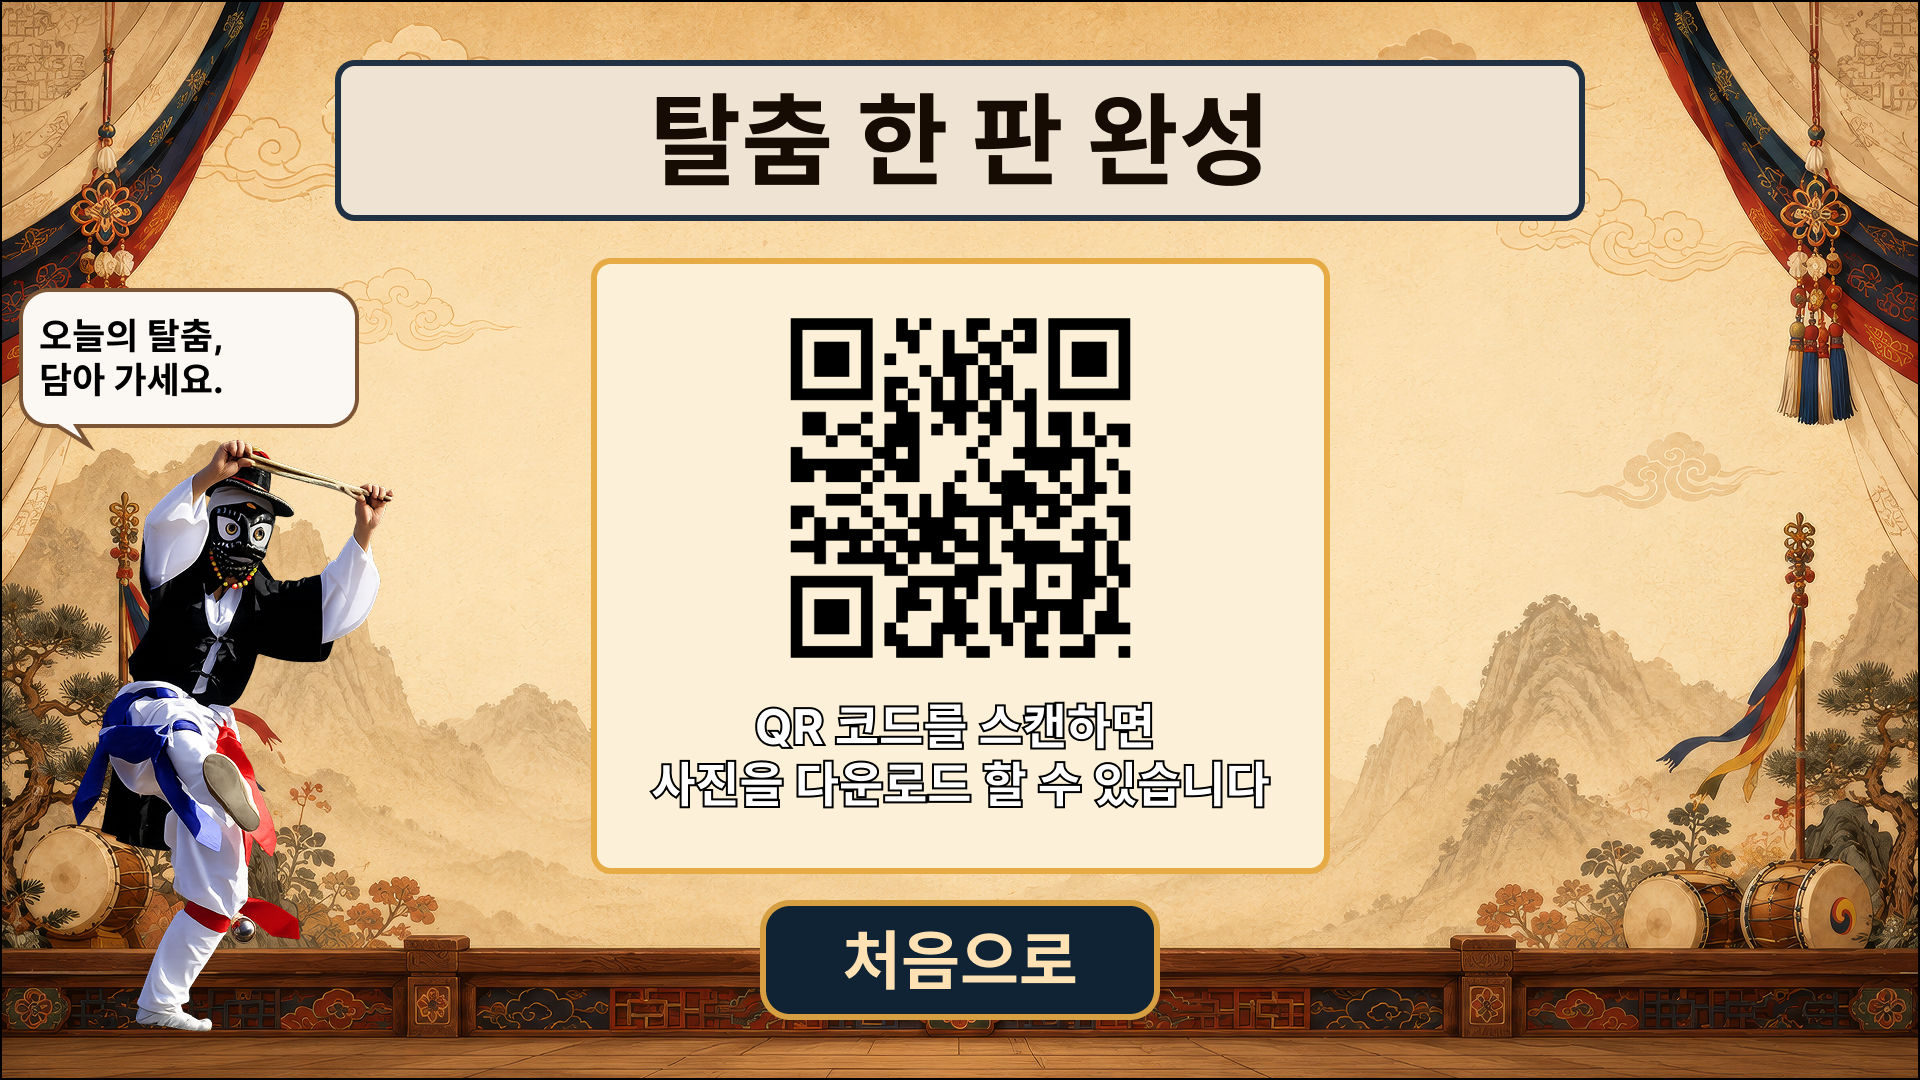
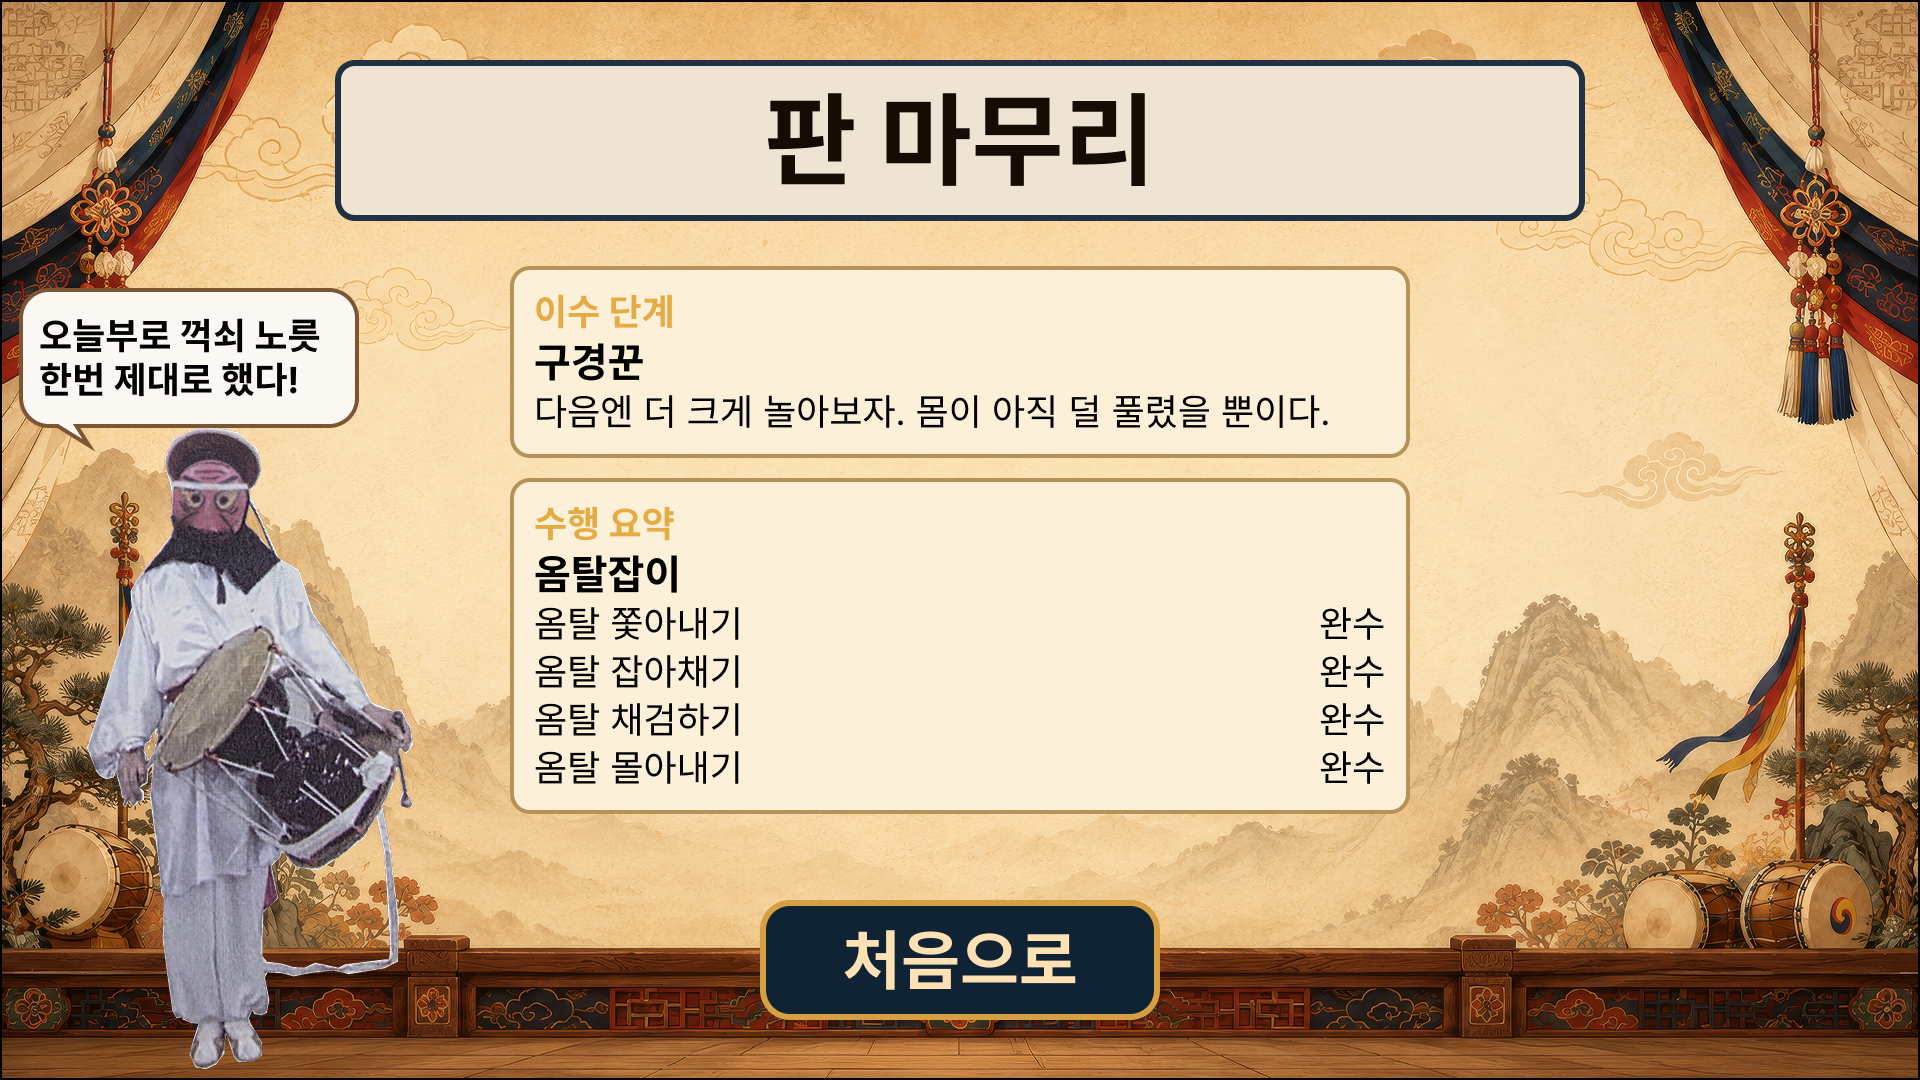
docs: 탈놀음 체험과 마무리 흐름 보강

diff --git a/05_산출물/시범콘텐츠/05_덧뵈기 - 탈놀음 한바탕/덧뵈기 - 탈놀음 한바탕 기획서.md b/05_산출물/시범콘텐츠/05_덧뵈기 - 탈놀음 한바탕/덧뵈기 - 탈놀음 한바탕 기획서.md
@@ -25,7 +25,7 @@ updated: 2026-08-31
 | 2.0.1 | 2026.08.05 | 문구 수정<br>히스토리 기록           | 2<br>4.3 | 조상연 |
 | 2.0.2 | 2026.08.05 | 배역 선택 시 해당 배역에 대한 설명 표시    | 4.2      | 조상연 |
 | 3.0.0 | 2026.08.14 | 가면극 재규정 반영 전면 재설계          | 전체       | 조상연 |
-| 4.0.0 | 2026.08.27 | 방향성 수정에 따른 콘텐츠명 변경 및 내용 수정 | 전체       | 조상연 |
+| 4.0.0 | 2026.08.31 | 방향성 수정에 따른 콘텐츠명 변경 및 내용 수정 | 전체       | 조상연 |
 
 # 1. 개요
 
@@ -78,7 +78,7 @@ updated: 2026-08-31
 ### 3.2.2 동작 방식
 
 <img src="../../../assets/시범콘텐츠/탈놀음/플로우_언어선택.png">
-
+<br>
 <img src="../../../assets/시범콘텐츠/탈놀음/언어선택.png" width="500">
 
 #### 1) 언어 선택 및 적용
@@ -112,7 +112,7 @@ updated: 2026-08-31
 ### 3.3.2 동작 방식
 
 <img src="../../../assets/시범콘텐츠/탈놀음/플로우_화면타임아웃.png">
-
+<br>
 <img src="../../../assets/시범콘텐츠/탈놀음/화면타임아웃.png">
 
 #### 1) 타임아웃
@@ -144,7 +144,7 @@ updated: 2026-08-31
 #### 1) 진행 중 종료 선택 시 처리
 
 <img src="../../../assets/시범콘텐츠/탈놀음/플로우_종료팝업.png">
-
+<br>
 <img src="../../../assets/시범콘텐츠/탈놀음/종료팝업.png">
 
 ##### (1) 적용 조건
@@ -158,7 +158,7 @@ updated: 2026-08-31
 #### 2) 미입력 타임아웃 시 처리
 
 <img src="../../../assets/시범콘텐츠/탈놀음/플로우_미입력타임아웃.png">
-
+<br>
 <img src="../../../assets/시범콘텐츠/탈놀음/미입력타임아웃.png">
 
 ##### (1) 적용 조건
@@ -182,7 +182,7 @@ updated: 2026-08-31
 #### 3) 세션 진행 실패 시 처리
 
 <img src="../../../assets/시범콘텐츠/탈놀음/플로우_실패종료.png">
-
+<br>
 <img src="../../../assets/시범콘텐츠/탈놀음/실패종료.png">
 
 ##### (1) 적용 조건
@@ -365,7 +365,7 @@ updated: 2026-08-31
 ### 3.7.2 동작 방식
 
 <img src="../../../assets/시범콘텐츠/탈놀음/플로우_증거조합.png">
-
+<br>
 <img src="../../../assets/시범콘텐츠/탈놀음/플로우_증거조합판정.png">
 
 
@@ -438,7 +438,6 @@ updated: 2026-08-31
 
 <img src="../../../assets/시범콘텐츠/탈놀음/플로우_이용동의.png">
 
-
 # 5. 마당 선택 진행
 
 ## 5.1 개요
@@ -460,7 +459,14 @@ updated: 2026-08-31
 
 ## 6.1 개요
 
+#### 1) 정의
+
 - 유저에게 덧뵈기의 각 마당 별 재미 요소 체험 수단을 제공하여 마당 별 특성을 체험 및 학습하는 단계
+
+### 6.1.1 진행
+
+<img src="../../../assets/시범콘텐츠/탈놀음/플로우_탈놀음체험.png">
+
 - 진행 시 등장 인물의 유형, 위치, 동작, 대사 및 이벤트 진행(각 마당 별 체험 콘텐츠)은 데이터 테이블로 제어
 
 ## 6.2 공통 체험 준비
@@ -784,27 +790,49 @@ updated: 2026-08-31
 
 ## 7.1 개요
 
-
+마무리 진행은 결과 안내 및 종료로 구성되어 세션을 마무리하는 단계임
 
 ## 7.2 진행
 
-### 7.2.1 결과 안내
+### 7.2.1 결과 안내 및 종료
 
-#### 1) 결과 데이터 정리
+<img src="../../../assets/시범콘텐츠/탈놀음/플로우_마무리.png"  width=500 >
+
+#### 1) 결과 데이터 집계 및 확정
+
+- 세션 데이터에서 현재 언어, 선택 마당 및 수행 기록 로드
+- 선택 마당의 단계 별 수행 기록을 결과 화면에 표시할 항목으로 집계
+	- 모션 체험: 성공 횟수 누적
+	- 키워드 조합: 조합 별 획득 점수 누적
+	- 증거 조합: 조합 성공 개수 누적
+- 집계 결과를 최종 결과 데이터로 확정
+- 기록 없는 항목은 미수행 상태로 처리
 
 #### 2) 결과 화면 표시
 
-#### 3) 다음 진행
+- 선택한 마당의 명칭과 최종 결과 요약을 현재 언어로 표시
+- 확정된 결과 데이터를 마당별 결과 항목에 맞춰 표시
 
-### 7.2.2 종료
+#### 3) 체험 종료 처리
 
-#### 1) 세션 데이터 초기화
+- '처음으로' 버튼 터치 or 화면 타임아웃 or 미입력 타임아웃 실행 시 체험 종료 처리  진행
+- 결과 화면의 추가 입력 차단하고 진행 중인 타이머와 대사 출력을 종료
+- 서버에 해당 세션의 체험 종료 상태 기록
+	- 2차년도 개발 사양
+- 종료 처리 완료 시 세션 데이터 초기화 진행
 
-#### 2) 시작 화면 표시
+#### 4) 세션 데이터 초기화
 
+- 종료된 세션의 임시 데이터를 초기값으로 변경
+- 키워드 및 증거 선택값, 진행 인디케이터와 타이머 상태 초기화
+- 초기화 완료 후 시작 화면으로 이동
+
+%%
 
 # 8. 운영 파라미터
 
 
 
 # 9. 에러 케이스
+
+%%

diff --git a/99_Logs/log.md b/99_Logs/log.md
@@ -7,6 +7,11 @@ updated: 2026-08-31
 
 # 작업 로그
 
+## [2026-08-31] update | 탈놀음 체험과 마무리 흐름 일괄 반영
+
+- 사용자 요청에 따라 탈놀음 한바탕 기획서의 체험과 마무리 흐름 및 관련 흐름도 이미지를 수정하고, PDF 내보내기 설정도 변경하여 함께 커밋함
+- 반영 파일: `05_산출물/시범콘텐츠/05_덧뵈기 - 탈놀음 한바탕/덧뵈기 - 탈놀음 한바탕 기획서.md`, `assets/시범콘텐츠/탈놀음/7_1.png`, `assets/시범콘텐츠/탈놀음/플로우_마무리.png`, `assets/시범콘텐츠/탈놀음/플로우_탈놀음체험.png`, `.obsidian/app.json`
+
 ## [2026-08-31] update | 탈놀음 기획서와 이미지 자산 일괄 반영
 
 - 사용자 요청에 따라 현재 작업 트리에 있던 탈놀음 기획서, 장면 이미지, 위선 아이콘, 증거 소품과 임시 참고 이미지를 한 번에 커밋함
